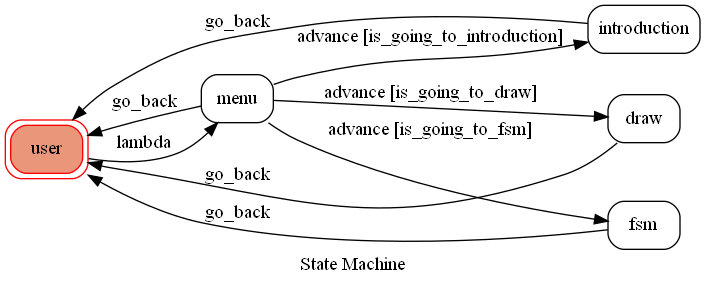
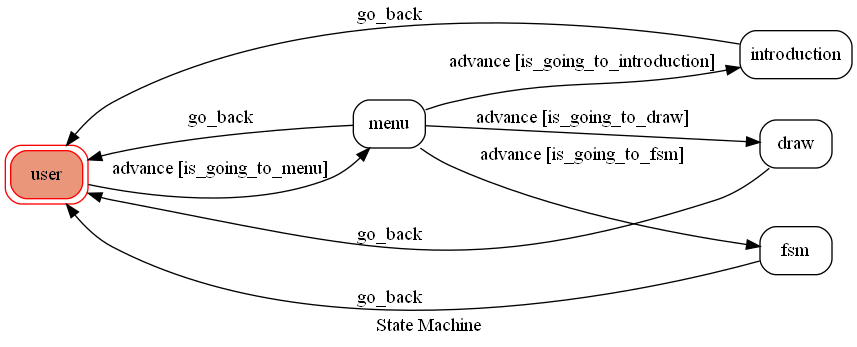
state update

diff --git a/app.py b/app.py
@@ -25,9 +25,10 @@ machine = TocMachine(
             "conditions": "is_going_to_introduction",
         },
         {
-            "trigger": "lambda",
+            "trigger": "advance",
             "source": "user",
             "dest": "menu",
+            "conditions": "is_going_to_menu",
         },
         {
             "trigger": "go_back",
@@ -131,7 +132,7 @@ def show_fsm():
     return send_file('fsm.png',mimetype='image/png')
 
 if __name__ == "__main__":
-    # show_fsm()
+    show_fsm()
     port = os.environ.get("PORT", 8000)
     app.run(host="0.0.0.0", port=port, debug=True)
     

diff --git a/fsm.py b/fsm.py
@@ -7,7 +7,7 @@ from utils import send_image_url, send_text_message
 class TocMachine(GraphMachine):
     def __init__(self, **machine_configs):
         self.machine = GraphMachine(model=self, **machine_configs)
-        
+    
     def is_going_to_menu(self, event):
         text = event.message.text
         return text.lower() == "menu"
